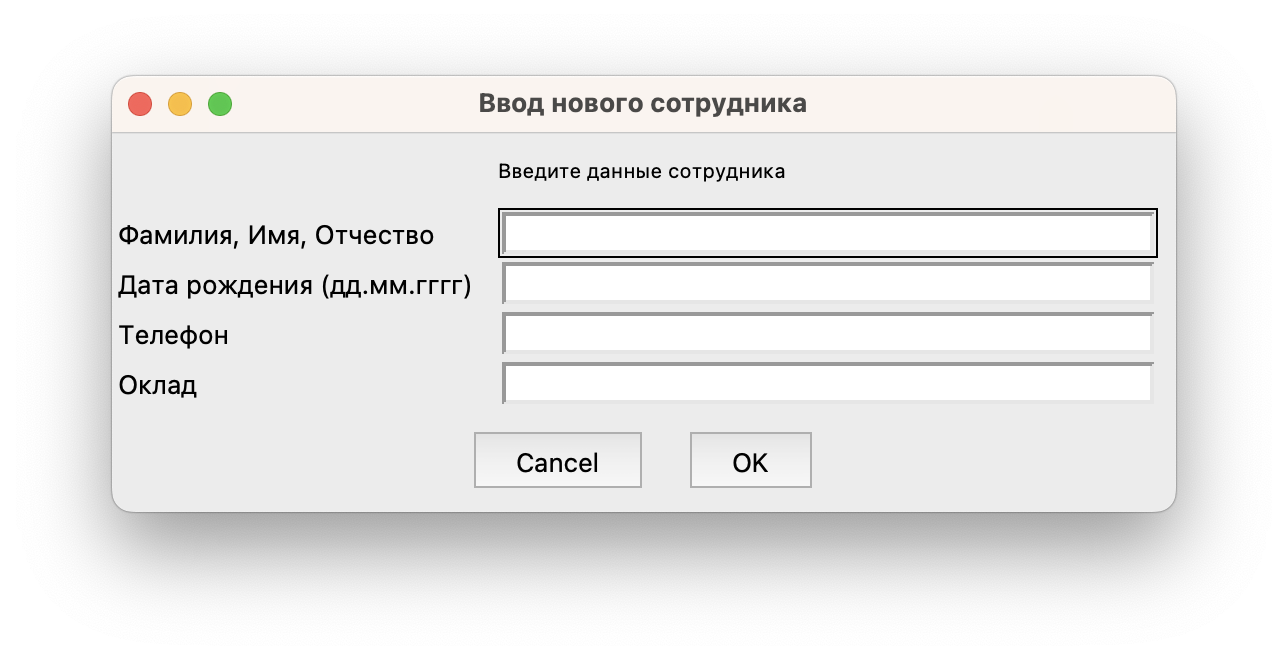
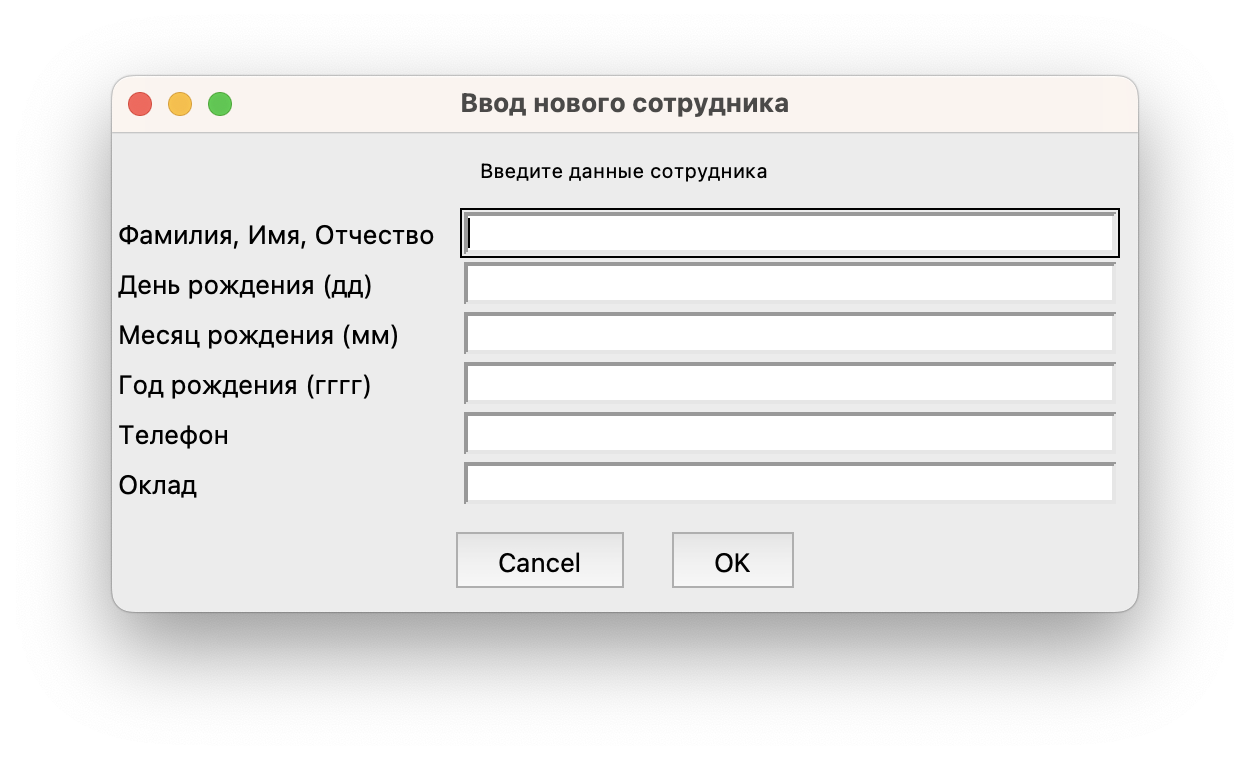
Edit Menu

diff --git a/ERP/Menu_ERP.py b/ERP/Menu_ERP.py
@@ -11,11 +11,9 @@ def menu(): # Создает интерфейс меню
         choices = ["Принять нового сотрудника", "Уволить сотрудника", \
         "Редактировать данные сотрудника", "Вывести отчет", "Выйти"]
         output = buttonbox(msg, title, choices)
-
         if output == "Принять нового сотрудника":
             type_vvod = 1
             vvod()
-
         elif output == "Уволить сотрудника":
             type_vvod = 2
             dell()
@@ -23,7 +21,7 @@ def menu(): # Создает интерфейс меню
             type_vvod = 3
             edit()
         elif output == "Вывести отчет":
-            type_vvod = 4
+            report()
         elif output == "Выйти!":
             exit()
     
@@ -34,7 +32,8 @@ def vvod(): # Создает интерфейс ввода нового сотр
     global subdivision          # Переменная, куда записывают подразделение сотрудника
     msg = "Введите данные сотрудника"   # Сообщение
     title = "Ввод нового сотрудника"    # Шапочка.
-    fieldNames = ["Фамилия, Имя, Отчество", "Дата рождения (дд.мм.гггг)", "Телефон", "Оклад"]  # Ввод данных
+    fieldNames = ["Фамилия, Имя, Отчество", "День рождения (дд)", "Месяц рождения (мм)", \
+        "Год рождения (гггг)", "Телефон", "Оклад"]
     fieldValues = []  
     fieldValues = multenterbox(msg,title, fieldNames)
     var1 = fieldValues      # Запись данных в переменную в виде листа
@@ -79,5 +78,38 @@ def edit():
     fieldValues = multenterbox(msg,title, fieldNames)
     edit_human = fieldValues      # Запись ID корректируемого сотрудника в переменную edit_human
 
-menu()
+def report():
+        global type_report
+        msg = "По какому признаку вы хотите сформировать отчет?"
+        title = "Отчеты"
+        choices = ["По должности", "По году рождения", \
+        "По диапазону зарплат", "А можно всех посмотреть? ;)"]
+        output = buttonbox(msg, title, choices)
+        
+        if output == "По должности":
+            fieldValues = []            # Следующее окно интерфейса выбора должности
+            title = "Выбор должности"
+            fieldNames = ["Директор", "Начальник отдела", "Менеджер по продажам", "Инженер", \
+                    "Бухгалтер", "Уборщик"] # Сюда можно добавить словарь
+            fieldValues = choicebox(msg,title, fieldNames)
+            type_report = fieldValues     # Данные о должности записаны в переменную type_report
+        
+        elif output == "По году рождения": # Следующее окно интерфейса ввода года
+            title = "Ввод года рождения"    
+            fieldNames = ["Год рождения"]  
+            fieldValues = []  
+            fieldValues = multenterbox(msg,title, fieldNames)
+            type_report = fieldValues      # Запись года рождения в переменную type_report
+        
+        elif output == "По диапазону зарплат": # Следующее окно ввода диапазона зарплат
+            title = "Ввод диапазона зарплат"    
+            fieldNames = ["Минимум", "Максимум"]  
+            fieldValues = []  
+            fieldValues = multenterbox(msg,title, fieldNames)
+            type_report = fieldValues      # Запись диапазона зарплат в переменную type_report
+        elif output == "А можно всех посмотреть? ;)":
+            type_report = "All"     
+            # При выводе всех сотрудников, в переменную type_report записывается строка "All".
 
+menu()
+print(var1)
